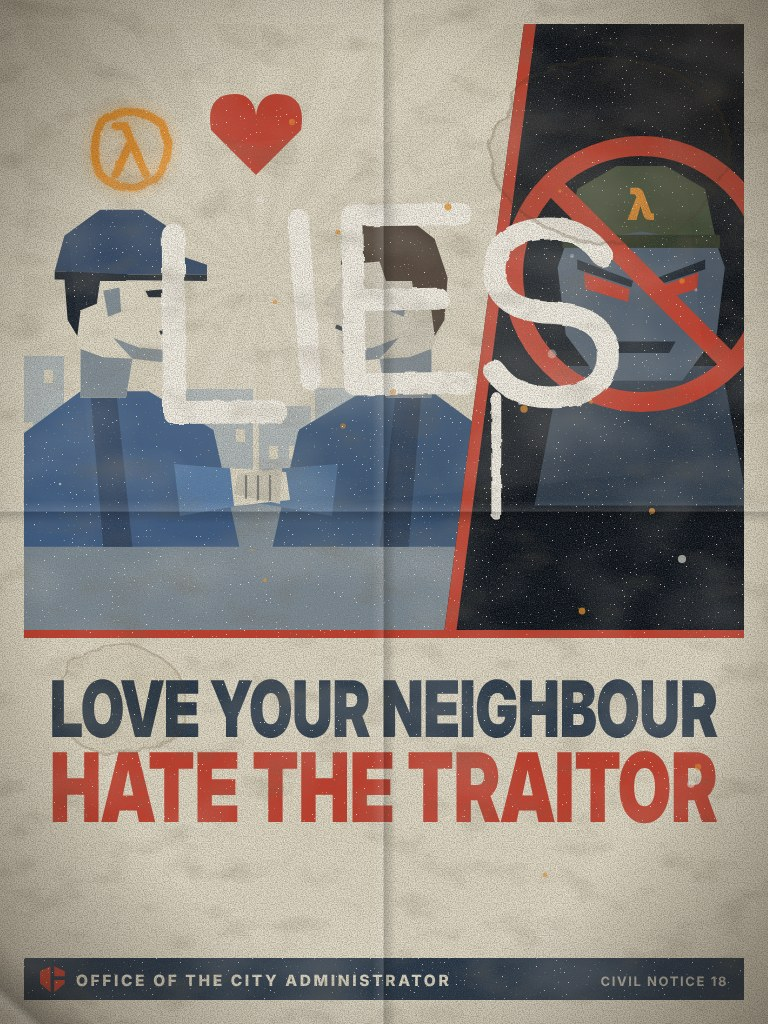
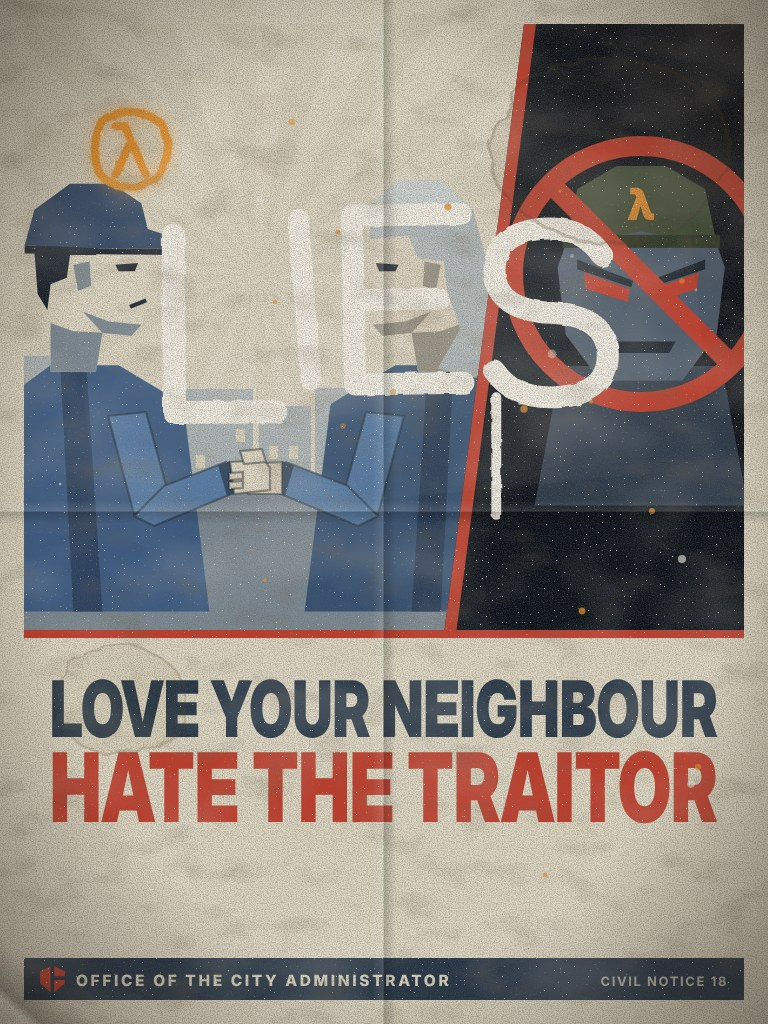
Slogan poster: a man and a woman shaking hands properly, no heart
The neighbours are a man and a woman now, their arms have shoulders,
elbows and wrists, the two hands are drawn apart from each other, and the
heart is gone.

Claude-Session: https://claude.ai/code/session_01Y8SXQorFoe55U3GQd1K7aN

Changed region(s): [[0.0312, 0.1562, 0.6562, 0.625], [0.25, 0.0938, 0.4062, 0.1875], [0.4375, 0.375, 0.4688, 0.4062]]

diff --git a/_dev/posters/slogan.js b/_dev/posters/slogan.js
@@ -7,14 +7,19 @@ const ART = {};
 ART.neighbour = () => {
   let s = R(0, 0, 720, 610, '#d6cfba') + rays(232, 250, 40, 1000, C.paper, 0, 360, 'opacity=".75"');
   s += skyline(470, C.steel2, '#d6cfba', 22, 110) + R(0, 466, 720, 144, C.steel);
-  // the neighbours
-  const body = (t, bd) => P('M-34,214 L-16,152 L30,118 L72,118 L112,142 L128,214Z', t) + P('M36,118 L52,118 L62,214 L44,214Z', bd);
-  s += G('translate(8,176) scale(1.62)', body(C.blue, C.blueD) + head({ cap: C.blueD, smile: true }));
-  s += G('translate(456,176) scale(-1.62,1.62)', body('#335073', '#263a55') + head({ skin: '#c8c2b1', sh: '#727e88', hair: '#3a2c22', smile: true }));
-  // their hands
-  s += P('M150,440 L226,446 L236,478 L156,492Z', C.blue2) + P('M314,440 L238,446 L228,478 L308,492Z', '#456a93');
-  s += P('M206,444 L262,448 L266,476 L210,482Z', C.paper) + P('M258,444 L214,450 L210,470 L256,480Z', '#c8c2b1') + L('M222,452 L222,474 M234,452 L234,476 M246,452 L246,476', C.ink, 2.2, 'opacity=".5"');
-  s += G('translate(232,112) scale(1.5)', P('M0,26 L-30,-4 Q-34,-28 -14,-28 Q-2,-28 0,-14 Q2,-28 14,-28 Q34,-28 30,-4Z', C.red));
+  // the neighbours: a man and a woman of the block, shaking hands
+  const body = (t, bd) => P('M-34,270 L-16,152 L30,118 L72,118 L112,142 L128,270Z', t) + P('M36,118 L52,118 L62,270 L44,270Z', bd);
+  const scarf = P('M16,52 L24,22 L44,4 L70,4 L86,18 L88,40 L64,38 L58,52 L42,54 L40,72 L32,96 L46,120 L22,126 L10,86Z', C.steel2) + P('M24,22 L44,4 L70,4 L86,18 L60,20 L40,30Z', '#c9d0d0');
+  s += G('translate(-22,150) scale(1.62)', body(C.blue, C.blueD) + head({ cap: C.blueD, smile: true }));
+  s += G('translate(488,150) scale(-1.62,1.62)', body('#335073', '#263a55') + head({ skin: '#d8cdb8', sh: '#8f8a7c', hair: C.steel2, smile: true }) + scarf);
+  // their arms (shoulder, elbow, wrist), meeting in the open between them: his thumb over her hand
+  const O = `stroke="${C.ink}" stroke-width="2.2" stroke-opacity=".5" stroke-linejoin="round"`;
+  const skinB = '#d8cdb8';
+  s += P('M380,392 L342,388 L318,476 L354,490Z', '#4f77a3', O) + P('M354,492 L324,462 L262,438 L252,468 L334,502Z', '#4f77a3', O) + P('M270,441 L258,437 L249,468 L261,472Z', '#263a55');
+  s += P('M222,440 L258,438 L258,470 L224,470Z', skinB, O);
+  s += P('M84,392 L122,388 L146,476 L110,490Z', C.blue2, O) + P('M110,492 L140,462 L202,438 L212,468 L130,502Z', C.blue2, O) + P('M194,441 L206,437 L215,468 L203,472Z', C.blueD);
+  s += P('M206,438 L240,436 L246,444 L246,466 L210,470Z', C.paper, O) + P('M216,427 L238,425 L242,438 L220,440Z', C.paper, O);
+  s += P('M205,449 L219,448 L219,455 L205,456Z', skinB, O) + P('M205,458 L219,457 L219,464 L205,465Z', skinB, O);
   // the traitor
   s += P('M500,0 L720,0 L720,610 L420,610Z', '#0b1119') + P('M500,0 L512,0 L432,610 L420,610Z', C.red);
   s += G('translate(322,96) scale(0.82)', [

diff --git a/POSTER_BRIEF.md b/POSTER_BRIEF.md
@@ -95,4 +95,4 @@ Some plain curfew posters show a dream's poster instead (`docs/features/dream-po
 
 ## Her slogan
 
-`neighbour` (and `neighbour_x`, painted over: LIES): **LOVE YOUR NEIGHBOUR, HATE THE TRAITOR**, the owner's own slogan (14 November), with no smaller words. Two neighbours shaking hands under a heart; beside them, in the dark, a Resistance face struck out in red. It is on the Director of Propaganda's poster roll with the eleven above. Drawn by `_dev/posters/slogan.js`.
+`neighbour` (and `neighbour_x`, painted over: LIES): **LOVE YOUR NEIGHBOUR, HATE THE TRAITOR**, the owner's own slogan (14 November), with no smaller words. Two neighbours, a man and a woman of the block, shaking hands (no heart: the owner, 14 November); beside them, in the dark, a Resistance face struck out in red. It is on the Director of Propaganda's poster roll with the eleven above. Drawn by `_dev/posters/slogan.js`.
